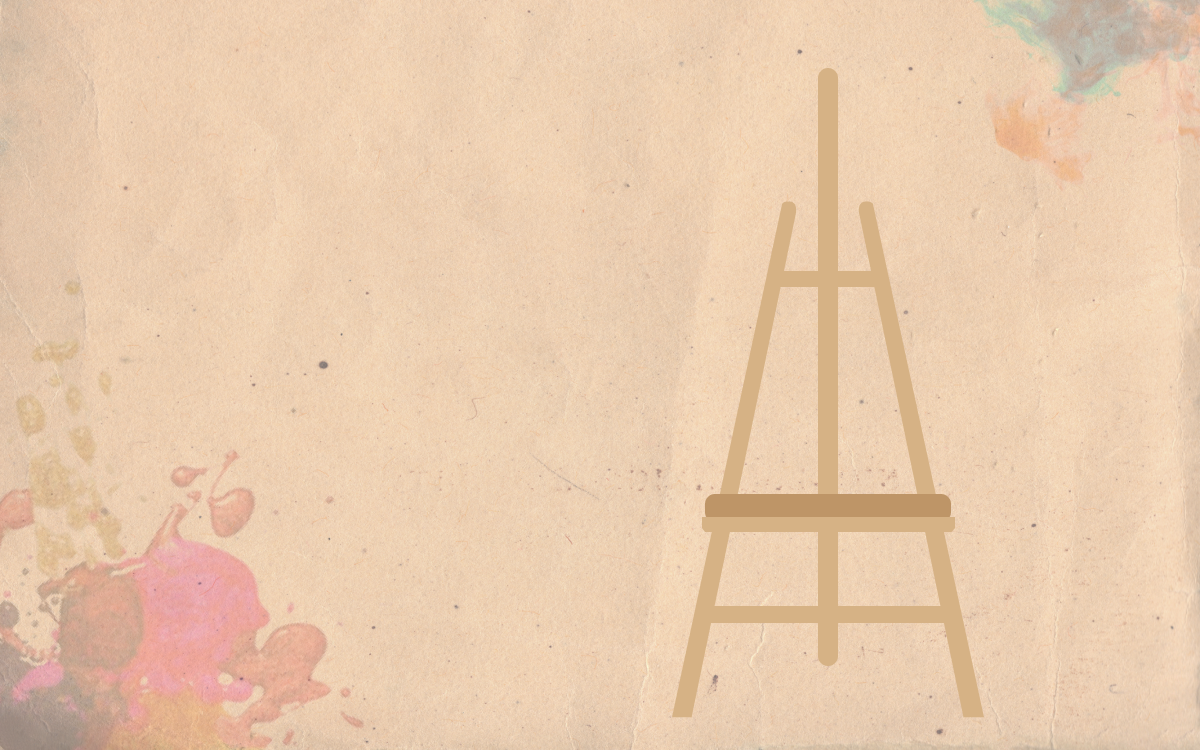
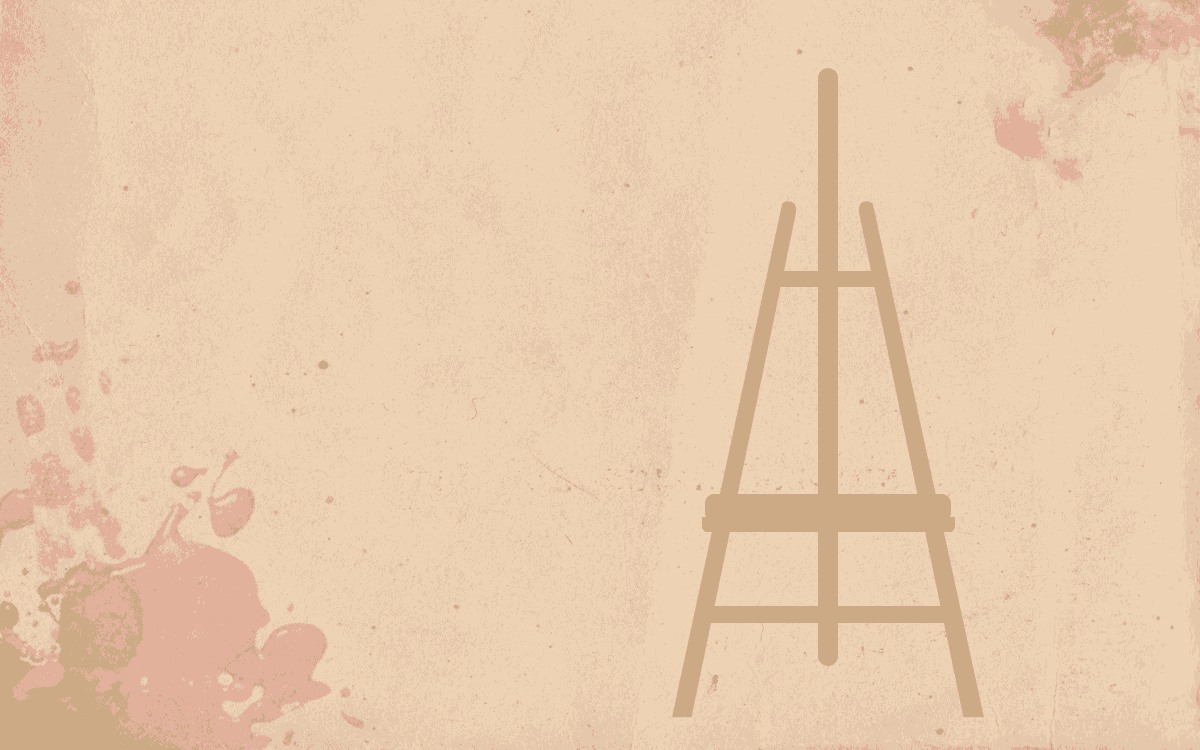
changed background

Changed region(s): [[0.8017, 0.0, 1.0, 0.1227], [0.5858, 0.644, 0.8017, 0.7053], [0.0, 0.8893, 0.0925, 1.0]]

diff --git a/everypicture/v2-final-version/styles.css b/everypicture/v2-final-version/styles.css
@@ -1,10 +1,9 @@
 body {
-  /* background-image: url(images/madlib-background-before.svg);
-  background-repeat: no-repeat; */
     height: 750px;
-    padding: 1px;
 
-    background-image: url(images/background.png);
+    margin: 0 auto;
+
+    background-image: url(images/background-body.png);
     background-repeat: no-repeat;
 
     position: relative;
@@ -12,7 +11,10 @@ body {
 }
 
 html {
-    background-color: #A4B6D6;
+    background-color: #edd7b8;
+
+    background-size: cover;
+    background-image: url(images/backgroundhtml.png);
     /* overflow: hidden; */
 }
 
@@ -110,6 +112,7 @@ button {
     position: absolute;
     transition: opacity 0.6s ease;
 }
+
 /*----------------------------- Image 1 -------------------------*/
 #slide1 {
     top: 11%;
@@ -227,7 +230,7 @@ button {
 
 .animate-ref2 {
     transform: 
-        translate(-190px, -140px);
+        translate(-190px, -160px);
         opacity: 0;
         /* z-index: 0; */
 }
@@ -367,8 +370,8 @@ button {
 
 .animate-ref4 {
     transform: 
-        translate(-130px, -190px)
-        scale(1.1);
+        translate(-128px, -180px)
+        scale(1.2);
         opacity: 0;
         /* z-index: 0; */
 }
@@ -437,7 +440,7 @@ button {
 
 .animate-ref5 {
     transform: 
-        translate(-200px, -225px)
+        translate(-203px, -225px)
         scale(1.05);
         opacity: 0;
         /* z-index: 0; */

diff --git a/everypicture/v2-final-version/index.html b/everypicture/v2-final-version/index.html
@@ -25,7 +25,7 @@
         <h1>The Art</h1>
         <h2>Behind The Art</h2>
     </header>
-    <p>Hover over the frame to see the image change!</p>
+    <p>Hover over the frame to see the image transform!</p>
 
     <div id="slide1" class="slide">
         <div class="slide-active">
@@ -48,7 +48,7 @@
         </div>
     </div>
     <div id="text2" class="text-show">
-            <p>Text about photo. Text about photo. Text about photo. Text about photo. Text about photo. Text about photo. Text about photo. Text about photo. Text about photo</p>
+            <p>Other text about photo. Other text about photo. Other text about photo. Other text about photo. Other text about photo. Other text about photo. Other text about photo.</p>
     </div>
 
     <div id="slide3" class="slide">
